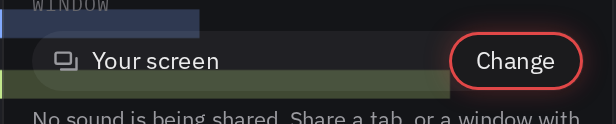
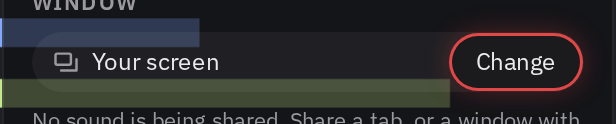
docs(web): the Panel, counters, labels and readable text, by space; pictures retaken (0188)

diff --git a/docs/design.md b/docs/design.md
@@ -42,10 +42,10 @@ The pictures are shot from the real app (`design-sheet.mjs`, see [Keeping this p
 
 - **The wordmark:** [XOVE] in a slim viewfinder. The O is a record button: a white ring as thick as the letters and a red dot inside. Four corners frame the word; the **top-right corner is red**.
 - **The symbol:** the record O alone, inside the same four corners. It's the app icon and the favicon.
-- **Construction** (`app/src/brand/mark.ts`, the only place the geometry lives): one grid with a cap height of 100 and a stroke of 10. Letter widths X 88, O 100, V 90, E 68, gaps 20. The viewfinder sits 28 from the letters, with arms of 24 (26 in the symbol). The dot's radius is 29.4 in an O 100 across. The X ends square, the V's tips are cut flat at the cap height.
+- **Construction** (`app/src/shared/components/wordmark/utils/mark.util.ts`, the only place the geometry lives, every number named in its `constants/`): one grid with a cap height of 100 and a stroke of 10. Letter widths X 88, O 100, V 90, E 68, gaps 20. The viewfinder sits 28 from the letters, with arms of 24 (26 in the symbol). The dot's radius is 29.4 in an O 100 across. The X ends square, the V's tips are cut flat at the cap height.
 - **Colours:** white strokes (`--text`, `#ebebec`), the red dot and corner (`--accent`, `#ef4b4b`), on the soft black ground. Never recoloured, outlined, stretched or put on a busy picture.
-- **Drawn, not typed:** `components/brand/XoveMark` (the wordmark, inline SVG, named "Xovê" for screen readers) and `XoveIcon` (the symbol). In the header it's about 110 px wide.
-- **The hover animation** (`brand/markTimeline.ts`, `useMarkAnimation`): pointing at the wordmark (or focusing it) plays it once, in about 3 seconds. The left corners stay and the word slides under them until the X is gone, while the right corners close in on the O; the corners settle into the symbol; the dot double-blinks like a surprised eye; everything plays back. A new hover doesn't restart it, and it never plays with reduced motion.
+- **Drawn, not typed:** the `Wordmark` block (inline SVG, named "Xovê" for screen readers), `variant="full"` for the wordmark and `"icon"` for the symbol. It's a picture, not a keyboard stop. In the header it's about 110 px wide.
+- **The hover animation** (the Wordmark's `mark-timeline.util.ts` and `useMarkAnimation`): pointing at the wordmark plays it once, in about 3 seconds. The left corners stay and the word slides under them until the X is gone, while the right corners close in on the O; the corners settle into the symbol; the dot double-blinks like a surprised eye; everything plays back. A new hover doesn't restart it, and it never plays with reduced motion.
 - **Three optical sizes of the symbol** (`iconMark("large" | "small" | "tiny")`): **large** (64 px and up) is slim, about 70% of its square; **small** (32 px) and **tiny** (16 px) have heavier strokes and fill more of the square, tiny edge to edge. The outer edges match in all three.
 
 ![The wordmark at header size](images/design/wordmark.png)
@@ -78,7 +78,7 @@ Dark only: Xovê is a room for watching screens, so the chrome stays out of the 
 | `--line` | `#2c2c2f` | Borders and dividers |
 | `--text` | `#ebebec` | Text, white strokes, the mark |
 | `--text-muted` | `#9a9a9f` | Secondary text |
-| `--text-faint` | `#66666b` | Labels that can be faint (3:1 at least) |
+| `--text-disabled` | `#66666b` | **Only a disabled control's words**, never readable text: muted is the dimmest text anywhere |
 | `--accent` | `#ef4b4b` | **The one accent**, red, the record light: live pills, on-air rings, the unseen count, focus rings, the switch when on, primary buttons |
 | `--accent-ink` | `#3a0808` | Text and icons on a red fill (4.7:1) |
 | `--accent-soft` | `rgba(239, 75, 75, 0.14)` | Soft red glows and tints |
@@ -86,7 +86,8 @@ Dark only: Xovê is a room for watching screens, so the chrome stays out of the 
 | `--ok` | `#3fbf7f` | Connected, the seats bar, the mic level when it's sent |
 | `--warn` | `#e0b341` | Reconnecting |
 | `--glass` | `rgba(10, 10, 11, 0.72)` | The round buttons, drop-ups and pickers over the video (with an 8 px blur) |
-| `--panel` | `rgba(18, 18, 20, 0.74)` | The settings panel (with a 22 px blur) |
+| `--panel` | `rgba(18, 18, 20, 0.74)` | The [Panel](#the-panel)'s glass, with `--panel-filter` |
+| `--panel-filter` | blur 22 px, brightness 55%, saturation 120% | The Panel's backdrop: dims what's behind it before blurring |
 | `--panel-line` | `rgba(255, 255, 255, 0.08)` | The panel's border and its tabs' line |
 | `--sel-bg` | `var(--surface-raised)` | The dark pill of a chosen option, and buttons in a row (Change) |
 | `--sel-shadow` | `0 1px 2px rgba(0, 0, 0, 0.4)` | Its shadow |
@@ -204,7 +205,7 @@ The colours above, the type scale and the fonts are tokens too. The rest:
 
 **Small sizes (icons, dots, bars), numbered as px ÷ 4.**
 
-`--size-0-5` 2 px · `--size-0-75` 3 px · `--size-1` 4 px · `--size-1-5` 6 px · `--size-2` 8 px · `--size-2-5` 10 px · `--size-2-75` 11 px · `--size-3` 12 px · `--size-3-25` 13 px · `--size-3-5` 14 px · `--size-3-75` 15 px · `--size-4` 16 px · `--size-4-25` 17 px · `--size-4-5` 18 px · `--size-5` 20 px · `--size-5-5` 22 px · `--size-6` 24 px · `--size-7` 28 px · `--size-7-5` 30 px · `--size-8` 32 px
+`--size-0-5` 2 px · `--size-0-75` 3 px · `--size-1` 4 px · `--size-1-5` 6 px · `--size-2` 8 px · `--size-2-5` 10 px · `--size-2-75` 11 px · `--size-3` 12 px · `--size-3-25` 13 px · `--size-3-5` 14 px · `--size-3-75` 15 px · `--size-4` 16 px · `--size-4-25` 17 px · `--size-4-5` 18 px · `--size-5` 20 px · `--size-5-5` 22 px · `--size-6` 24 px · `--size-6-5` 26 px · `--size-7` 28 px · `--size-7-5` 30 px · `--size-8` 32 px
 
 **Things with a role.**
 
@@ -258,7 +259,7 @@ The colours above, the type scale and the fonts are tokens too. The rest:
 
 **Text sizes beyond the scale above, named by their px; letter spacing in hundredths of an em.**
 
-`--text-10` 10 px · `--text-11` 11 px · `--text-13-5` 13.5 px · `--text-14` 14 px · `--text-14-5` 14.5 px · `--text-17` 17 px · `--text-19` 19 px · `--text-22` 22 px · `--text-23-2` 23.2 px · `--text-28` 28 px · `--text-32` 32 px · `--text-44` 44 px · `--text-inherit` 1em · `--tracking-1` 0.01em · `--tracking-2` 0.02em · `--tracking-6` 0.06em · `--tracking-8` 0.08em · `--tracking-10` 0.1em
+`--text-11` 11 px · `--text-13-5` 13.5 px · `--text-14` 14 px · `--text-14-5` 14.5 px · `--text-17` 17 px · `--text-19` 19 px · `--text-22` 22 px · `--text-23-2` 23.2 px · `--text-28` 28 px · `--text-32` 32 px · `--text-44` 44 px · `--text-inherit` 1em · `--tracking-1` 0.01em · `--tracking-2` 0.02em · `--tracking-6` 0.06em · `--tracking-8` 0.08em · `--tracking-10` 0.1em
 
 **Durations, in milliseconds (--duration-120 is 120 ms).**
 
@@ -317,7 +318,7 @@ The colours above, the type scale and the fonts are tokens too. The rest:
 
 ### Segmented controls
 
-`components/ui/Segmented`: every choice between a few options (Quality, Mode) is one.
+`shared/components/segmented`: every choice between a few options (Quality, Mode) is one, real radios drawn as a track.
 
 - A light translucent **track** as tall as the panel's controls, and **one dark pill** (`--sel-bg`, a 1 px inner line, `--sel-shadow`) that slides under the chosen option in 200 ms.
 - An option pointed at gets **a soft light that fades only sideways** (white at 6% in the middle, nothing at its ends, the track's full height), fading in 160 ms, and its text goes from muted to white. **The chosen option doesn't react**: it's already chosen.
@@ -356,7 +357,7 @@ The colours above, the type scale and the fonts are tokens too. The rest:
 The settings for what you send, from the cog on my own stream or, with nobody live, the cog in the stage's corner, or from Go live's menu (then over Go live).
 
 - **Over the cog:** a popover **centred on the cog** (or on Go live), **10 px above the round buttons** (never behind them) and never past the player's sides; it fades in and rises 6 px. **Every tab has the same height**, the tallest one's, so switching tabs never moves the tabs under the pointer; at least 240 px, at most the room above the buttons (then it scrolls inside). Its width follows the player: a fifth of it, **280 to 320 px**. **Another stream taking the stage closes the settings:** they belong to the buttons they opened from. The ✕, the cog or Escape closes it.
-- Frosted like the dropdown panels (the panel colour at 74%, blur 22 px, a 1 px white border at 8%), 16 px corners. **One control height:** 30 px.
+- On the one [Panel](#the-panel). **One control height:** 30 px. **Each control's name** is a [Control label](#labels-by-space).
 - **Tabs Screen, Camera and Voice**, with a **red marker** that slides under the chosen one and a **red dot** on the tab of what you're sending. **Where a screen can't be shared, the Screen tab is greyed out**: it stays in its place, says why ("This browser can't share a screen"), and the panel opens on Camera.
 - **Screen:** while you share, what's shared and **Change** (and, when the screen has no sound, a line saying how to share it); while you don't, one line saying these are used next time. **No preview**: the stage and the browser's picker already show it. Then Quality and Mode.
 - **Camera:** your camera's preview under its own **Preview** heading, like every other group, centred under it: **LIVE** while it's sent, **"Only you see this"** while it's off (the camera turns on for you alone while the tab is open). Like any app, the browser asks for the camera the first time; refused or missing, the preview's place says so, and how to allow it. Then the camera's picker, Quality and Mode.
@@ -378,7 +379,7 @@ Two sizes: **md** (10 × 18 px padding, 15 px text) and **sm** (6 × 12 px, 13 p
 
 ### Sliders
 
-`components/ui/Range`, white like a video player's: a **3 px track**, white up to the knob and `#ebebec` at 22% after, and a **12 px white knob** that grows to 14 px on hover or keyboard focus. Used for the ambilight's brightness, each sound's volume over the stage and on the phone's feed cards ([upright](#what-i-hear-and-go-live), in the stage's glass pill), and in a small preview's row ([across, after the buttons](#on-the-stage)). WebKit has no part for the filled side, so `Range` sets a `--fill` variable; Firefox uses `::-moz-range-progress`.
+`shared/components/slider` (the `Slider`), white like a video player's: a **3 px track**, white up to the knob and `#ebebec` at 22% after, and a **12 px white knob** that grows to 14 px on hover or keyboard focus. Used for the ambilight's brightness, each sound's volume over the stage and on the phone's feed cards ([upright](#what-i-hear-and-go-live), in the stage's glass pill), and in a small preview's row ([across, after the buttons](#on-the-stage)). WebKit has no part for the filled side, so `Range` sets a `--fill` variable; Firefox uses `::-moz-range-progress`.
 
 **A threshold is a line, not a knob:** the mic's sensitivity is a slim upright white line (3 × 14 px, growing to 16 px) across the same slim track, the common mark for a threshold.
 
@@ -396,9 +397,44 @@ The sliders' rules stay one browser per rule, checked by `npm run check:styles` 
 
 ![The people panel](images/design/panel-people.png) ![The account menu, with the switch and a slider](images/design/panel-account.png)
 
-- Frosted sections (dark at 74%, blur 22 px, a 1 px white border at 8%), **16 px corners**, stacked with 2 px clear cuts. 340 px wide (the activity list: up to 440 px, centred under the pill).
+- On the [Panel](#the-panel) with cuts: its sections stacked with 2 px clear cuts, each its own glass. 340 px wide (the activity list: up to 440 px, centred under the pill).
 - Open 8 px under their button; **one thing on screen at a time** (the [floating rule](#drop-ups)); they unroll by their height (260 ms).
 - **Activity:** the latest events, each with its icon, what happened and when. **People:** the seats bar (green), who's here and what each is doing or watching, and the queue. **Account:** me and my connection, the ambilight's switch and brightness, Admin for admins, Sign out.
+
+### The panel
+
+![The settings, on the Panel](images/design/settings-popover.png)
+
+`shared/components/panel` (`Panel`, and `PanelSection` for its sections): **the one surface** that holds content, for the settings, the menus and the waiting room's card. A rule for the whole app: a new panel is this one.
+
+- **Glass, 16 px corners:** the panel colour (`--panel`), a 1 px white border at 8%, and a backdrop that's **blurred 22 px and dimmed to 55%** (`--panel-filter`), so its text stays readable over the brightest stream. Over a white stream its muted text measures 4.6 : 1, its main text 10.9 : 1; the style check holds the glass to that.
+- **Cuts are optional:** a menu's sections are stacked with 2 px clear cuts, each section carrying the glass itself (a menu's unrolling clip would stop a blur on the outer box).
+- **On a plain page it's the same panel,** nearly solid there, with nothing behind it to blur.
+- What uses it places and moves it; the panel only draws itself.
+
+### Counters by space
+
+![Admin's section headings with their chips](images/design/section-headings.png)
+
+A number that changes takes the look of **its space**, and each space's look is its own: changing one never changes another.
+
+- **On a control:** the number belongs to the control (the people button's "4"), in its words' size and weight.
+- **Over a stream:** the `StatPill`, a small glass pill: the people's faces overlapping a little (or the eye where faces can't show), then the number. What it counts ("watching") is said to screen readers; the names are in its tooltip.
+- **In a heading:** the `CountChip`, a round chip centred with the heading's words, neutral, **red only when it needs you** (requests waiting).
+
+### Labels by space
+
+![The Field: its label at the box's border](images/design/field.png)
+
+- **Over a control in a panel:** the `ControlLabel`, 11 px capitals, muted (Quality, Mode, Camera).
+- **Over a field in a form:** the `Field`'s label, 13 px, bright and semibold, **starting exactly at the box's border**; a quiet word after it ("(optional)") in muted. Its counter sits under the box, the form's button at the row's end.
+- **Starting a part of a page:** the `SectionHeading`, 12 px capitals, muted, **no line**, its count in a chip.
+
+### Readable text
+
+- **Muted (`--text-muted`) is the dimmest text, anywhere,** on the page and on glass: 6.9 : 1 on the ground, 4.6 : 1 on the glass over white. The dim grey is `--text-disabled`, only for a disabled control.
+- **11 px is the smallest text.** An avatar's initial is part of its picture, not text.
+- **The style check holds both:** 4.5 : 1 for every text colour on every surface and on the glass over white, no size token under 11 px, and `--text-disabled` only in a disabled rule.
 
 ### Avatars and LIVE
 
@@ -411,7 +447,7 @@ The sliders' rules stay one browser per rule, checked by `npm run check:styles` 
 
 ![The info row under the stage](images/design/info-row.png)
 
-- **The info row:** on the left, who's on the stage (avatar with its ring, name in the display font, LIVE, what (" · voice" while their voice is on), how long) and who's watching (up to 4 avatars and "N watching", me included, never the sharer); with nobody live, an empty circle where the photo goes, **"Nobody is sharing yet"**, and who's here. On the right, the other streams as **previews** with a name chip (their screen, or their camera when that's all they share), then **the seats**: a dashed box of six little screens (16 × 10 px, 2 px corners), three over three, grey for an open seat and red for each stream live with a steady red light under it, their count in words on hover; gone when all 6 are live. When room runs short, the left gives way first, then the previews scroll with a slim scrollbar, and the box stays put.
+- **The info row:** on the left, who's on the stage (avatar with its ring, name in the display font, LIVE, what (" · voice" while their voice is on), how long) and who's watching (a [Stat pill](#counters-by-space): up to 4 faces and the number, me included, never the sharer); with nobody live, an empty circle where the photo goes, **"Nobody is sharing yet"**, and who's here. On the right, the other streams as **previews** with a name chip (their screen, or their camera when that's all they share), then **the seats**: a dashed box of six little screens (16 × 10 px, 2 px corners), three over three, grey for an open seat and red for each stream live with a steady red light under it, their count in words on hover; gone when all 6 are live. When room runs short, the left gives way first, then the previews scroll with a slim scrollbar, and the box stays put.
 - **Previews can be heard:** each person's sound and voice have [one switch each](#what-i-hear-and-go-live), off at first while small; a preview I turn on plays at its own volume, as many as I like. A preview's sounds are downloaded only while I hear them.
 - **Small pictures show their buttons only when asked:** pointing at a preview (128 px) opens its **row** outside the picture: the voice (a speaking head), the screen's sound, and a swap when they share a screen and a camera.
 - **The row** floats under the preview, or above it where the window has no room under it (the side is chosen once, as it opens, with room for the slider); it's **exactly the picture's width**, centred on the picture (not on what peeks out behind it), and follows its preview. It wears the [panels' glass](#dropdown-panels) (16 px corners, its thin light border, the panels' shadow); its 28 px buttons are clear until hovered and **centred both ways** (5 px above and below while closed). **Resting on a button (120 ms) unrolls one slider after the buttons**, on the side away from the preview, so the buttons never move under the pointer; the row never changes width. The button whose slider is open has a soft 1 px ring. Moving to the other sound, the old bar shrinks to the left as the new one grows from it. The row stays while its slider is in use and while the pointer travels from the preview to it (250 ms); it closes a moment after the pointer leaves both, or on a press elsewhere. Moving to another preview, its row unrolls from it as the last one rolls back into its own.
@@ -434,7 +470,7 @@ The sliders' rules stay one browser per rule, checked by `npm run check:styles` 
 - **The seat offer:** when a seat frees up for someone in the queue, a dialog (up to 400 px, `--radius-2-5`) offers it for 60 seconds, with the time running down.
 - **The waiting room:** the place in the queue, in plain words, while the room is full.
 - **Tooltips** (`shared/components/tooltip`, the app's only one; never the browser's own) say what a control does or why it can't be used, with a mouse after a **120 ms** rest (then at once along a row, for 400 ms after one hides) or on the keyboard's focus; they go the moment the pointer leaves or presses. A finger on a touch screen gets none (a tap leaves a button "hovered"); a greyed-out control says why in the toast instead. The round buttons' look: near-black `#070708`, 12 px text, 6 px corners, at most 260 px wide, **floating on its own layer** 10 px above its control (below it where there's no room), never clipped. **One floating thing at a time:** a tooltip showing closes any other tooltip and whatever opened on a mouse rest, never what you opened; one on a drop-up's own controls belongs to it. Told to keep quiet (a live button, whose drop-up takes its place), it still describes its control for screen readers.
-- **The toast** (`components/ui/Toast`, called with `showToast`): a short message to the user, the app's one way to announce something briefly. The round buttons' glass (frosted, 8 px blur, their shadow), a pill up to 360 px wide and two lines, 13 px text, with the icon of what it's about (the control you touched, crossed out) and no alert sign. At the top centre of the player. It fades in and drops 6 px, stays **3 s** and fades out by itself; one at a time, the newest replacing it; screen readers hear it once. Today it says why a greyed-out control can't be used when a finger or a pen touches it ("This browser can't share a screen", the full room).
+- **The toast** (`shared/components/toast`, shown with `toastStore.show`): a short message to the user, the app's one way to announce something briefly. The round buttons' glass (frosted, 8 px blur, their shadow), a pill up to 360 px wide and two lines, 13 px text, with the icon of what it's about (the control you touched, crossed out) and no alert sign. At the top centre of the player. It fades in and drops 6 px, stays **3 s** and fades out by itself; one at a time, the newest replacing it; screen readers hear it once. Today it says why a greyed-out control can't be used when a finger or a pen touches it ("This browser can't share a screen", the full room).
 
 ![The app's tooltip over my mic](images/design/tooltip.png)
 
@@ -472,7 +508,7 @@ Xovê is for computers: laptops and desktops get the app, in one layout (theater
 
 ![The sign-in page on a desktop](images/design/sign-in.png)
 
-Sign-in, request access (and request sent), the room's queue and admin: centred on the page's ground, the wordmark above the heading.
+Sign-in, request access (and request sent), the room's queue and admin: centred on the page's ground, the wordmark above the heading. Each is in the **Page shell** (`home`, `form`, `waiting`, `message`); the queue's card is the [Panel](#the-panel).
 - **Sign-in:** "Go **LIVE** with your friends." and its line (see [Name and voice](#name-and-voice)), then "Continue with Google" and who can join.
 
 ### Phones and tablets: see you on the big screen
@@ -511,10 +547,10 @@ Its content stays clear of the phone's bars (the browser's safe areas).
 - **Even spacing:** a row of pictures keeps one gap between all of them, counting what peeks out behind one; a button sits in the middle of its box both ways.
 - **Say each thing once:** on one screen, a fact (who's here, the seats, that nobody's sharing) appears in one place only.
 - **A panel's places are fixed.** A set of controls (the sounds I hear, and any like it) keeps every place it will ever have; one that can't be used yet is greyed in place, never left out, and never counts for a summary.
-- **Unavailable, not hidden.** An option that can't be used here stays in its place, greyed out (a text option, like a tab: the faint text colour at 50%; a control, like a round button or a sound I can't hear: 45% opacity), with its reason in its tooltip, so a panel looks the same on every device.
+- **Unavailable, not hidden.** An option that can't be used here stays in its place, greyed out (a text option, like a tab: `--text-disabled` at 50%; a control, like a round button or a sound I can't hear: 45% opacity), with its reason in its tooltip, so a panel looks the same on every device.
 - **Draft first:** a visual change starts as a draft approved before the work starts: a change to screens that exist, as a prototype in the app itself; a brand-new screen may start as a clickable HTML draft with these tokens and fonts. The approved draft is the reference the code must match.
 - **Check every size:** a 2K monitor both ways (2560 × 1440 and 1440 × 2560), 1920 × 1080, a narrow window, the empty room, and the phone and tablet screen.
-- **Reuse the components:** the shared blocks (`Icon`, `IconButton` with its variants, `Face`, `Switch`, `LiveBadge`, `Headline`, `ErrorNotice`, in `shared/components/`, each shown in Storybook), and `Button`, `Range`, `Dropdown`, `Segmented`, `Picker`, `DropUp`, `StageNotice`, `Toast`. A new control follows their sizes, motion and focus ring. A choice from a list is a `Picker` (one box, floating, with the slim scrollbar when long), a few options a `Segmented`, and a quick action over a live button a `DropUp`, everywhere in the app.
+- **Reuse the components:** the shared blocks in `shared/components/`, each shown in Storybook: `Icon`, `IconButton` with its variants, `Face`, `Switch`, `LiveBadge`, `Headline`, `ErrorNotice`, `Button`, `Slider`, `Segmented`, `Toast`, `Wordmark`, `Panel` and `PanelSection`, `PageShell`, `Field`, `StatPill`, `CountChip`, `ControlLabel`, `SectionHeading`, `Dropdown`, `Picker`, `DropUp`, `Tooltip`; and `StageNotice`. **One block per purpose** (ADR-0094): what does the same job is one block, even where today's values differ; what does a different job is its own block, however alike it looks, so changing one never changes another. A new control follows their sizes, motion and focus ring. A choice from a list is a `Picker` (one box, floating, with the slim scrollbar when long), a few options a `Segmented`, and a quick action over a live button a `DropUp`, everywhere in the app.
 - **Panels open over the button that opened them,** never from a side. **Panels are frosted, never opaque**; nothing over the video hides the round buttons.
 - **Say what effects cost:** blur, canvases and animations run on every frame; keep them to what's here.
 - **A screen says only what matters.** No readouts that imitate real equipment (clocks, meters, rulers, format tags, made-up numbers), and no frame inside another frame.

diff --git a/docs/architecture.md b/docs/architecture.md
@@ -29,9 +29,8 @@ Everything is in `app/src`:
 | `components/stage/` | The player and what's on it: the stage, the ambilight, the controls by owner: my own stream's round buttons (`PlayerButtons`, on the shared `Icon` and `IconButton`, the drop-ups on live ones) and, over someone else's stream, `ViewerBar` (what I hear at the left, each sound its own button and slider; my mic or Go live at the right); the voice I hear (`VoiceAudio`), each person's switches and volumes held by the stage for the visit (the hook `features/room/hooks/use-hearing.hook.ts`, its rules in `features/room/utils/hearing.util.ts`), and the previews' buttons (`HearToggles`, in a small preview's row, `PreviewTray`, which floats on its own layer over the page and follows its preview, opened through `usePreviewTray`; a preview's stack and its swap's moment in `stack.ts`); the settings panel (`SettingsPanel`, its Voice tab's mic level in `MicTest`), the facecam, the previews, the empty stage (`EmptyStage`, a TV on standby: the ways to start, alone in their row; with nobody live the settings are `ViewerBar`'s settings-only form, in the corner; its corners' glow in `CornerGlow`; its TV static in `StaticNoise`, a small canvas the page draws 20 times a second, its grain and bands scaled to the stage; the static's light round the stage in `StaticGlow`; both read their bands from `staticBands.ts`, so they roll together, and its `tv` flag lets the TV's turn-on play only the first time the stage stands by in a visit), the info row. The stage is two layers: its box holds every control (the round buttons, the sounds, Go live, the fullscreen button) and takes the pointer; a view inside it holds the picture and its ambilight in the picture's shape |
 | `components/room/` | The room around the stage: header, footer, people, activity (pill, list), account menu, the waiting screen and the seat offer |
 | `shared/stores/floating-store/` | What floats, one thing on screen at a time: `useFloating` tells the store a piece is open and its kind (opened by a click or the keyboard, opened on a mouse rest, a tooltip). The store's rules decide what closes, what's inside another stays, and its one listener takes a press outside and Escape, which returns focus to the button. Each piece holds its own open state; the settings panel stays pinned and doesn't join |
-| `shared/components/` (floating blocks) | On that store: `dropdown/` and `dropdown-section/`, `picker/` with `picker-list/` (a list that floats over its panel, masking what's behind it in the nearest `[data-list-host]`; a menu of `menuitemradio` options), `drop-up/` and `drop-up-row/` (a labelled `fieldset`; its gestures can redirect to an open panel), `tooltip/` (the app's only tooltip, on its own layer, describing its control for screen readers). `picker/` and `drop-up/` can be told to be open (`open`, `onOpenChange`); `cue/` is how a control is pointed at |
-| `components/ui/` | Shared controls: `Button`, `Range`, `Segmented`, `FullPageMessage`, `Toast` (a short message any component shows with `showToast`) |
-| `components/brand/`, `brand/` | The mark: its geometry and animation timeline (`brand/`), and the components that draw it (`XoveMark`, `XoveIcon`) |
+| `shared/components/` (floating blocks) | On that store: `dropdown/` (its sections are the Panel's), `picker/` with `picker-list/` (a list that floats over its panel, masking what's behind it in the nearest `[data-list-host]`; a menu of `menuitemradio` options), `drop-up/` and `drop-up-row/` (a labelled `fieldset`; its gestures can redirect to an open panel), `tooltip/` (the app's only tooltip, on its own layer, describing its control for screen readers). `picker/` and `drop-up/` can be told to be open (`open`, `onOpenChange`); `cue/` is how a control is pointed at |
+| `shared/components/` (the design system) | One block per purpose (ADR-0094), each with its test and stories: `button/`, `slider/`, `segmented/` (real radios), `toast/` (its state in `shared/stores/toast-store/`, shown with `toastStore.show`), `wordmark/` (the mark, full or icon; its geometry, timeline and favicon in its `utils/`, read by `scripts/brand-icons.mjs` too), `panel/` and `panel-section/` (the one glass), `page-shell/` (home, form, waiting, message), `field/`, `stat-pill/` and `count-chip/` (counters by space), `control-label/` and `section-heading/` (labels by space) |
 | `routes/` | Which page opens at which address, and who may open it: the root (`root/`), the route table (`app-routes/`), the guard (`route-guard/`, its rule in its `utils/route-access.util.ts`) |
 | `services/xove-api-service/` | The HTTP client (`xove-api.service.ts`): one function per endpoint, the call itself and its errors as `ApiError`; the CSRF token and the headers in `utils/`, the API's types in `types/`, its messages in `constants/` |
 | `shared/stores/auth-store/` | Who is signed in (`AuthProvider` in `auth.store.tsx`, which asks `GET /api/me` once and on demand; `useAuth` in its `hooks/`) |

diff --git a/docs/components/today.md b/docs/components/today.md
@@ -40,7 +40,7 @@ Xovê's name and mark, drawn with its red corner; it animates on hover.
 
 | Today | Goes to | What happens |
 | --- | --- | --- |
-| `components/brand/XoveMark.tsx`, `XoveIcon.tsx`, `parts.tsx`, `useMarkAnimation.ts`; its geometry in `brand/mark.ts`, `markTimeline.ts` | `shared/components/wordmark/` (its geometry in `shared/utils/`) | Kept |
+| `shared/components/wordmark/` (full and icon; its geometry, timeline and favicon in its `utils/`) | Here | Done (#188) |
 
 ### Activity pill and list
 
@@ -304,11 +304,11 @@ The shared controls today, and the copies that become one component each.
 
 | Block | Today | Goes to | What happens |
 | --- | --- | --- | --- |
-| Button | `components/ui/Button.tsx` | `shared/components/button/` | Kept |
-| Slider | `components/ui/Range.tsx` | `shared/components/slider/` | Kept |
-| Segmented control | `components/ui/Segmented.tsx` | `shared/components/segmented/` | Kept |
+| Button | `shared/components/button/` | Here | Done (#188) |
+| Slider | `shared/components/slider/` | Here | Done (#188) |
+| Segmented control | `shared/components/segmented/` (real radios) | Here | Done (#188) |
 | Floating layer | `shared/stores/floating-store/` | Here | Done (#187) |
-| Picker, drop-up, dropdown | `shared/components/picker/`, `picker-list/`, `drop-up/`, `drop-up-row/`, `dropdown/`, `dropdown-section/` | Here, on the floating layer | Done (#187) |
+| Picker, drop-up, dropdown | `shared/components/picker/`, `picker-list/`, `drop-up/`, `drop-up-row/`, `dropdown/` (its sections are the Panel's) | Here, on the floating layer | Done (#187) |
 | Cue | `shared/components/cue/` | Here | Done (#187) |
 | Tooltip | `shared/components/tooltip/` | Here, on the floating layer | Done (#187) |
 | Avatar | `shared/components/face/` (was `ui/Avatar.tsx`, `PersonAvatar.tsx`): the room's colour and initial with its rings, the account's photo | Already there | Merged |
@@ -317,8 +317,10 @@ The shared controls today, and the copies that become one component each.
 | Icons | `shared/components/icon/` and its drawings in `shared/constants/icons.constants.ts` (was `stage/icons.tsx`, `room/ActivityIcon.tsx` and inline drawings) | Already there | Merged |
 | LIVE badge | `shared/components/live-badge/`: beside who's on the stage, and over my preview | Already there | Merged |
 | Headline | `shared/components/headline/`: the big statement with its key words in the accent (sign-in, the empty stage) | Already there | Merged |
-| Toast | `components/ui/Toast.tsx`, `toast.ts` | `shared/components/toast/` | Kept |
-| Full-page message | `components/ui/FullPageMessage.tsx` | `shared/components/page-shell/`, with the pages' copied shells | Merged |
+| Toast | `shared/components/toast/`, its state `shared/stores/toast-store/` | Here | Done (#188) |
+| Page shell | `shared/components/page-shell/`: home, request access, the waiting room, the loading line | Here | Done (#188) |
+| Panel | `shared/components/panel/`, `panel-section/`: the settings, the menus, the waiting room's card | Here | Done (#188) |
+| Field, Stat pill, Count chip, Control label, Section heading | `shared/components/field/`, `stat-pill/`, `count-chip/`, `control-label/`, `section-heading/` | Here | Done (#188) |
 | Error notice | `shared/components/error-notice/`: the red-tinted box a problem is told in, on the home page and over the room (it was a copied `.error` rule in both pages) | Already there | Merged |
 
 ## Removed

diff --git a/docs/testing.md b/docs/testing.md
@@ -95,7 +95,7 @@ Every test earns its place, and runs alone, in any order, fast.
 - **One test file per file with logic**, beside it, named the same. A test keeps its own code and values, and uses the app's constants, types and enums where a value already has a name. Logic is tested where it lives, as plain functions; a page's tests check only the wiring, split by feature.
 - **Read the page as a person does:** roles, names, labels, `aria-pressed`, `aria-expanded`, `aria-disabled`, `userEvent`; never markup details or class names. A `data-*` attribute only when it's the only sign of a state.
 - **Its own data and its own setup, the most important rule:** each test builds what it needs (people from factories, its own fakes, its clock, its storage) in the test, or in a `beforeEach` that builds it fresh; never once for a whole file, never in a `beforeAll`. Every test passes alone, first, last, or alongside any other.
-- **Clean after every test, by the setup, not the test:** `testing/setup.ts` clears the page, storage and cookies, puts back real timers, the media queries and the fake LiveKit, removes the stand-ins a test defined for what jsdom lacks (fullscreen, touch points), and calls the reset of every piece of the app that keeps state between renders (the toast, the floating piece, the tooltip's warmth, the install prompt, the TV); Vitest itself puts back every spy, stubbed global and variable (`restoreMocks`, `unstubGlobals`, `unstubEnvs`). Nothing is restored inside a test's body, where a failure would skip it. A new piece of shared state gets a reset beside it, called there, and a pair of tests in `testing/setup.test.tsx`.
+- **Clean after every test, by the setup, not the test:** `testing/setup.ts` clears the page, storage and cookies, puts back real timers, the media queries and the fake LiveKit, removes the stand-ins a test defined for what jsdom lacks (fullscreen, touch points), and calls the reset of every piece of the app that keeps state between renders (the toast's store, the floating store with the tooltip's warmth, the install prompt, the TV); Vitest itself puts back every spy, stubbed global and variable (`restoreMocks`, `unstubGlobals`, `unstubEnvs`). Nothing is restored inside a test's body, where a failure would skip it. A new piece of shared state gets a reset beside it, called there, and a pair of tests in `testing/setup.test.tsx`.
 - **A new order every run:** the tests in each file are shuffled on every run, so a test that leans on another fails at once. The run prints its seed (`Running tests with seed "…"`); `npm test -- --sequence.seed=<seed>` replays that order. Each file runs in its own environment, so files can't lean on each other.
 - **No real waiting:** every delay (debounce, retry, hover, hold, idle, animation) on fake timers, and a fixed clock for anything that shows a time (`onFakeClock()`). `findBy` and `waitFor` give up after 1 s, and move fake timers along by themselves: a test that needs longer is waiting in real time.
 - **Fast:** a test under about 100 ms, a file under about 1.5 s, the whole suite in about 10 s; a file that grows past that splits by feature, so the workers share the load.

diff --git a/docs/components/next.md b/docs/components/next.md
@@ -58,7 +58,7 @@ Small pieces used in many places. Each is built once and reused everywhere.
 
 ### Count badge
 
-*Building block* · `shared/components/count-badge/`
+*Building block* · by space (ADR-0094): `shared/components/count-chip/` in a heading, `stat-pill/` over a stream; a number on a control belongs to the control
 
 <table><tr>
 <td><img src="img/next/count-badge.webp" width="18" alt="On the bell"><br><sub>On the bell</sub></td>
@@ -138,7 +138,7 @@ Small pieces used in many places. Each is built once and reused everywhere.
 
 ### Section label
 
-*Building block* · `shared/components/section-label/`
+*Building block* · by space (ADR-0094): `shared/components/section-heading/` starting a part of a page, `control-label/` over a control in a panel, the `field/`'s label in a form
 
 <table><tr>
 <td><img src="img/next/section-label.webp" width="252" alt="&quot;In the room · 6&quot;"><br><sub>&quot;In the room · 6&quot;</sub></td>
